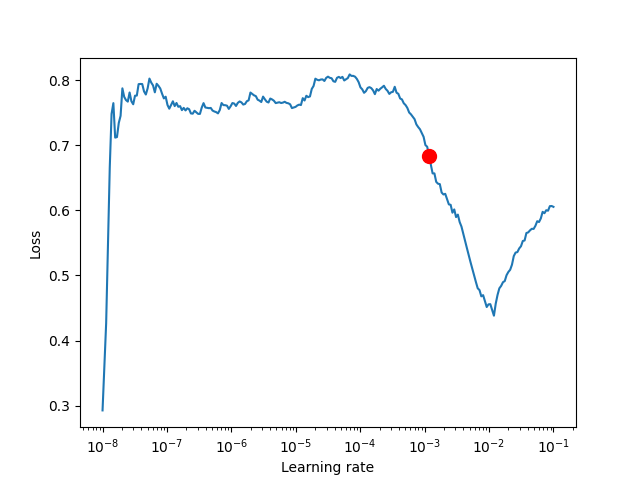
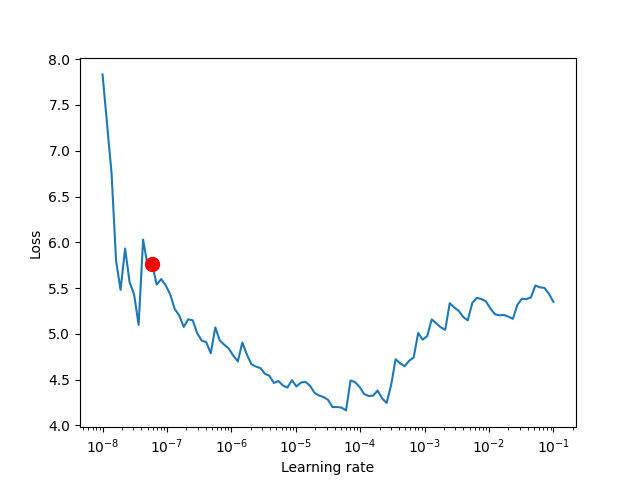
.

diff --git a/models/loss.py b/models/loss.py
@@ -1363,11 +1363,13 @@ def compute_lddt_per_atom(
 
 def calc_confidence_loss(
     node_xyz, scores_per_atom, w_gt, w_str, w_atom, 
-    min_margin=0.0, max_margin=5.0, m0=0.0, s0=1.0, gamma=3.0,
+    min_margin=0.0, max_margin=7.5, m0=0.0, s0=1.0, gamma=3.0,
     only_cdr=False, cdr_mask=None,
     # === NEW: weights & hyper-params ===
-    w_nce=1.0,              # (2) NCE loss 가중치
-    w_rank=1.0,             # (3) Rank-aware loss 가중치
+    w_rmsd_local=0.0,       # (1) RMSD regression 가중치 
+    w_rmsd_global=0.0,
+    w_nce=0.0,              # (2) NCE loss 가중치
+    w_rank=0.0,             # (3) Rank-aware loss 가중치
     w_reg=0.0,              # (4) Regularization 가중치
     tau=1.0,                # NCE temperature
     alpha=2.0,              # NCE에서 lddt 반영 강도 (decoy logit 보정)
@@ -1434,6 +1436,33 @@ def calc_confidence_loss(
             loss_atom = torch.relu(arg_atom).mean()
 
     # ======================================================================
+    # (1) Rank-aware energy shaping:
+    #   더 좋은 decoy(i)의 lddt가 더 높다면 (q_i > q_j), 점수도 더 높아야 (s_i > s_j).
+    #   기대 제약: s_i - s_j >= beta * (q_i - q_j)
+    #   → 위반량에 대해 softplus로 페널티
+    # ======================================================================
+    logits = torch.cat([s_gt.unsqueeze(0), s_decoy], dim=0)
+
+    diff = xyz_decoys[:, :, 1] - xyz_gt[:, 1].unsqueeze(0)
+    mse_per_res = diff.pow(2).mean(dim=-1)
+    rmsd_per_res_decoy = torch.sqrt(mse_per_res + 1e-8)
+    rmsd_per_res_gt = torch.zeros(1, rmsd_per_res_decoy.shape[1], device=rmsd_per_res_decoy.device)
+    rmsd_per_res = torch.cat((rmsd_per_res_gt, rmsd_per_res_decoy), dim=0)
+
+    if only_cdr:
+        cdr_mask = cdr_mask.bool()
+        rmsd_per_res = rmsd_per_res[:, cdr_mask]     # (D, L_cdr)
+        scores_per_atom = scores_per_atom[:, cdr_mask]     # (D, L_cdr)
+    
+
+    loss_rmsd_local = nn.functional.mse_loss(scores_per_atom, rmsd_per_res, reduction='none') # (B, L)
+    loss_rmsd_local = torch.clip(loss_rmsd_local.mean(-1), max=10) # (B)
+    loss_rmsd_global = nn.functional.mse_loss(scores_per_atom.mean(-1), rmsd_per_res.mean(-1), reduction='none') #(B)
+    loss_rmsd_global = torch.clip(loss_rmsd_global, max=10)
+
+    loss_rmsd_local = loss_rmsd_local.mean()
+    loss_rmsd_global = loss_rmsd_global.mean()
+    # ======================================================================
     # (2) NCE 관점: GT를 positive로, decoy들을 negative로 두고 softmax-CE
     # - 점수(s)가 높을수록 좋은 구조라고 가정 → softmax logit에 's'를 사용
     # - lDDT를 decoy logit 보정에 사용: 품질 낮은 decoy(1-lddt 큼)는 더 불리하도록
@@ -1449,7 +1478,6 @@ def calc_confidence_loss(
 
     log_probs = torch.log_softmax(logits, dim=0)
     loss_nce = -(target_probs * log_probs).sum()  # scalar
-    print("loss_nce", loss_nce)
     # ======================================================================
     # (3) Rank-aware energy shaping:
     #   더 좋은 decoy(i)의 lddt가 더 높다면 (q_i > q_j), 점수도 더 높아야 (s_i > s_j).
@@ -1512,7 +1540,9 @@ def calc_confidence_loss(
         w_atom * loss_atom +
         w_nce  * loss_nce +
         w_rank * loss_rank +
-        w_reg  * loss_reg
+        w_reg  * loss_reg +
+        w_rmsd_local * loss_rmsd_local +
+        w_rmsd_global * loss_rmsd_global
     )
 
     return {
@@ -1520,9 +1550,15 @@ def calc_confidence_loss(
         "loss_gt": loss_gt,
         "loss_str": loss_str,
         "loss_atom": loss_atom,
-        "loss_nce": loss_nce,
-        "loss_rank": loss_rank,
-        "loss_reg": loss_reg,
-        "loss_reg_calib": loss_calib,
-        "loss_reg_spread": loss_spread,
+        # "loss_nce": loss_nce,
+        # "loss_rank": loss_rank,
+        # "loss_reg": loss_reg,
+        # "loss_reg_calib": loss_calib,
+        # "loss_reg_spread": loss_spread,
+        # "loss_rmsd_local": loss_rmsd_local,
+        # "loss_rmsd_global": loss_rmsd_global,
+        "lddt_per_decoy": lddt_per_decoy,
+        "s_gt-s_decoy": s_gt - s_decoy,
+        "s_gt_mean": s_gt.mean(),
+        "s_decoys_mean": s_decoy.mean()
     }

diff --git a/models/flow_module.py b/models/flow_module.py
@@ -508,6 +508,8 @@ class FlowModule(LightningModule):
                 w_nce=training_cfg.w_nce,
                 w_rank=training_cfg.w_rank,
                 w_reg=training_cfg.w_reg,
+                w_rmsd_global=training_cfg.w_rmsd_global,
+                w_rmsd_local=training_cfg.w_rmsd_local,
                 cdr_mask=noisy_batch['diffuse_mask'][0],
                 only_cdr=True)
             
@@ -642,6 +644,8 @@ class FlowModule(LightningModule):
                     w_nce=self._exp_cfg.training.w_nce,
                     w_rank=self._exp_cfg.training.w_rank,
                     w_reg=self._exp_cfg.training.w_reg,
+                    w_rmsd_global=self._exp_cfg.training.w_rmsd_global,
+                    w_rmsd_local=self._exp_cfg.training.w_rmsd_local,
                     cdr_mask=batch['diffuse_mask'][0],
                     only_cdr=True)
                     

diff --git a/experiments/lr_finder.py b/experiments/lr_finder.py
@@ -102,7 +102,7 @@ class Experiment:
         lr_finder = tuner.lr_find(
             model=self._module,
             datamodule=self._datamodule,
-            num_training=250,
+            num_training=100,
             max_lr=0.1
         )
 
